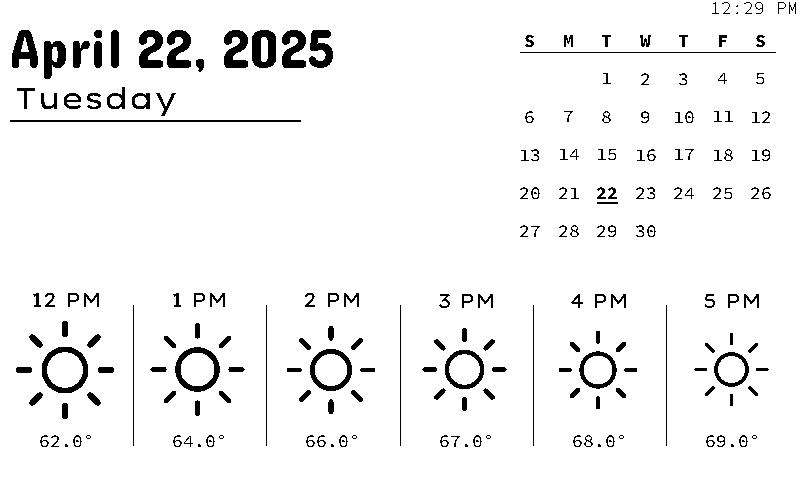
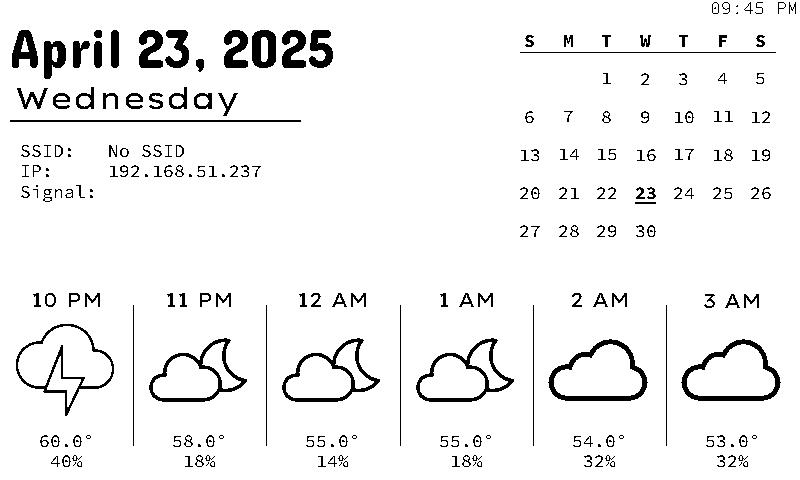
Added Network Status

diff --git a/display.py b/display.py
@@ -1,3 +1,4 @@
+import subprocess
 import sys
 from zoneinfo import ZoneInfo
 from PIL import Image, ImageDraw, ImageFont, ImageOps
@@ -38,20 +39,34 @@ from dotenv import load_dotenv
 
 from mcstatus import JavaServer, BedrockServer
 
+import icalendar
+import recurring_ical_events
+import requests
+
 # logging.basicConfig(level=logging.DEBUG)
 
 def main():
 
-    image = genImage()
+    load_dotenv()  # Load environment variables from .env
 
     if (platform.system() == "Darwin"):
-        image = image.save("out.jpg")
-    else:
         
+        image = genImage()
+        image = image.save("out.jpg")
+
+    else:
+
         from waveshare_epd import epd7in5_V2 as disp
         epd = disp.EPD()
         epd.init()
-        #epd.Clear()
+
+        # Show loading
+
+        loading = getLoadingImage()
+        epd.display_Partial(epd.getbuffer(loading), 250, 190, 550, 290)
+
+
+        image = genImage()
 
         epd.display(epd.getbuffer(image))
         epd.sleep()
@@ -66,6 +81,7 @@ def genImage(width=800, height=480):
     getCalendar(draw)
     getWeather(draw, Himage)
     # getMCStatus(draw)
+    getNetwork(draw)
 
     now = datetime.now()
     day_name = now.strftime("%A")  # Full weekday name
@@ -82,26 +98,33 @@ def genImage(width=800, height=480):
 
     return Himage
 
+def getLoadingImage():
+    Himage = Image.new('1', (300, 100), 255)
+    draw = ImageDraw.Draw(Himage)
 
+    draw.rounded_rectangle((0, 0, 300, 100), 15, fill="black")
+    draw.text((150, 50), "Loading...", "white", subFont, anchor="mm")
 
+    return Himage
 
 def getWeather(draw: ImageDraw.ImageDraw, image: Image.Image):
     
     yPos = 300
 
     if (len(sys.argv) == 1):
-        print("Fetching Weather")
+        try:
+            print("Fetching Weather")
 
-        load_dotenv()  # Load environment variables from .env
+            apiKey = os.getenv("ACCUWEATHER_API_KEY")
+            locationKey = os.getenv("ACCUWEATHER_LOCATION_KEY")
+            url = f"http://dataservice.accuweather.com/forecasts/v1/hourly/12hour/{locationKey}?apikey={apiKey}"
 
-        apiKey = os.getenv("ACCUWEATHER_API_KEY")
-        locationKey = os.getenv("ACCUWEATHER_LOCATION_KEY")
-        url = f"http://dataservice.accuweather.com/forecasts/v1/hourly/12hour/{locationKey}?apikey={apiKey}"
+            apiData = requests.get(url).json()
 
-        apiData = requests.get(url).json()
-
-        with open("data/data.json", "w") as f:
-            json.dump(apiData, f, indent=4)
+            with open("data/data.json", "w") as f:
+                json.dump(apiData, f, indent=4)
+        except:
+            print("Could not fetch weather")
 
     else:
         print("Skipping Weather Fetch")
@@ -122,7 +145,7 @@ def getWeather(draw: ImageDraw.ImageDraw, image: Image.Image):
         draw.text((index * dx + shift, yPos), timestr, "black", subSubFont, anchor="mm")
 
         icon = getWeatherIcon(hour["WeatherIcon"], hour["IsDaylight"])
-        size = 100 - (index * 5)
+        size = 100 # - (index * 5)
         pasteIcon(image, icon, index * dx + 65, yPos + 70, size, size)
 
         temp = hour["Temperature"]["Value"]
@@ -137,6 +160,51 @@ def getWeather(draw: ImageDraw.ImageDraw, image: Image.Image):
             if (prob >= 10):
                 draw.text((index * dx + shift, yPos + 160), f"{prob}%", "black", SSmono, anchor="mm")
             
+
+def get_local_ip():
+    import socket
+
+    try:
+        s = socket.socket(socket.AF_INET, socket.SOCK_DGRAM)
+        s.connect(("8.8.8.8", 80))
+        ip = s.getsockname()[0]
+        s.close()
+        return ip
+    except:
+        return "No IP"
+
+def get_ssid():
+    try:
+        result = subprocess.check_output(["iwgetid", "-r"], text=True)
+        return result.strip() if result.strip() else "No SSID"
+    except:
+        return "No SSID"
+
+def get_wifi_signal_strength():
+    try:
+        result = subprocess.check_output(["iw", "dev", "wlan0", "link"], text=True)
+        for line in result.splitlines():
+            if "signal:" in line:
+                signal_dbm = line.strip().split("signal:")[1].split()[0]
+                return f"{signal_dbm} dBm"
+        return ""
+    except:
+        return ""
+
+def getNetwork(draw: ImageDraw.ImageDraw):
+    x = 20
+    y = 145
+
+    ip = get_local_ip()
+    ssid = get_ssid()
+    strength = get_wifi_signal_strength()
+
+    draw.text((x, y), f"SSID:   {ssid}", "black", SSmono, anchor="lt")
+    y += 20
+    draw.text((x, y), f"IP:     {ip}", "black", SSmono, anchor="lt")
+    y += 20
+    draw.text((x, y), f"Signal: {strength}", "black", SSmono, anchor="lt")
+
 
 
 def pasteIcon(image: Image.Image, icon: Image.Image, x, y, sx, sy):
@@ -206,7 +274,7 @@ def getMCStatus(draw: ImageDraw.ImageDraw):
 
 
     x = 10
-    y = 140
+    y = 200
 
 
     jLatency = -1
@@ -320,7 +388,7 @@ def getWeatherIcon(icon_code, isDaylight):
 
 try:
     main()
-except KeyboardInterrupt:
+except:
     print("Ctrl-C Entered")
     from waveshare_epd import epd7in5_V2 as disp
     disp.epdconfig.module_exit()
